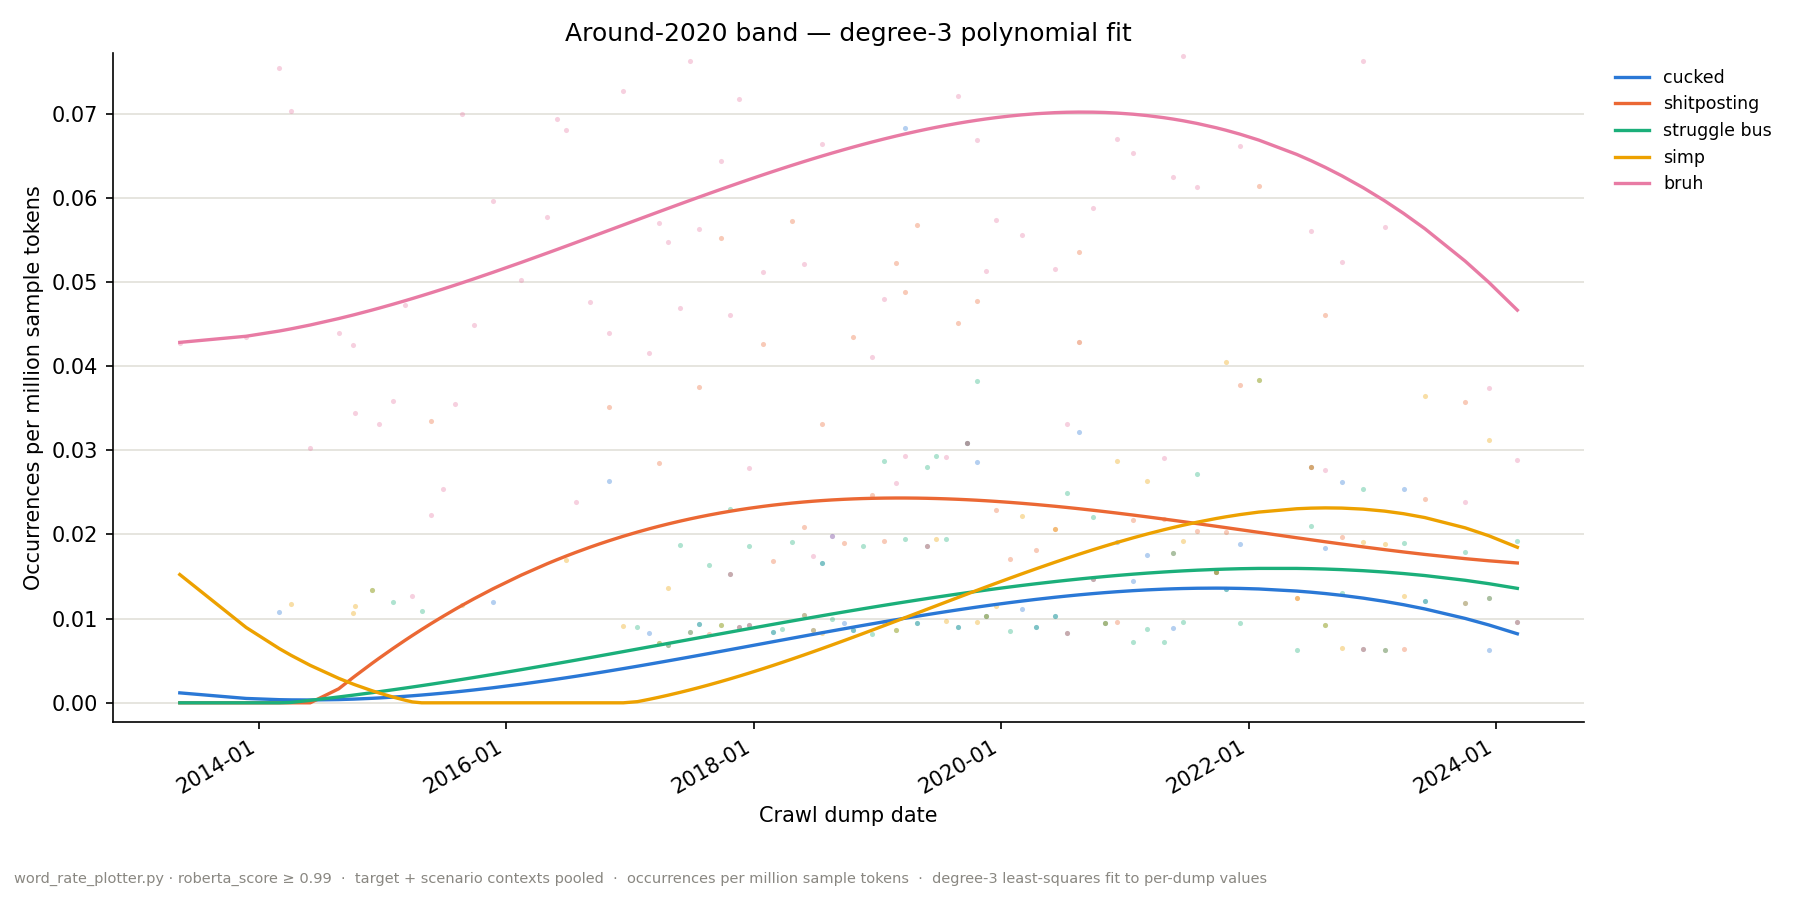
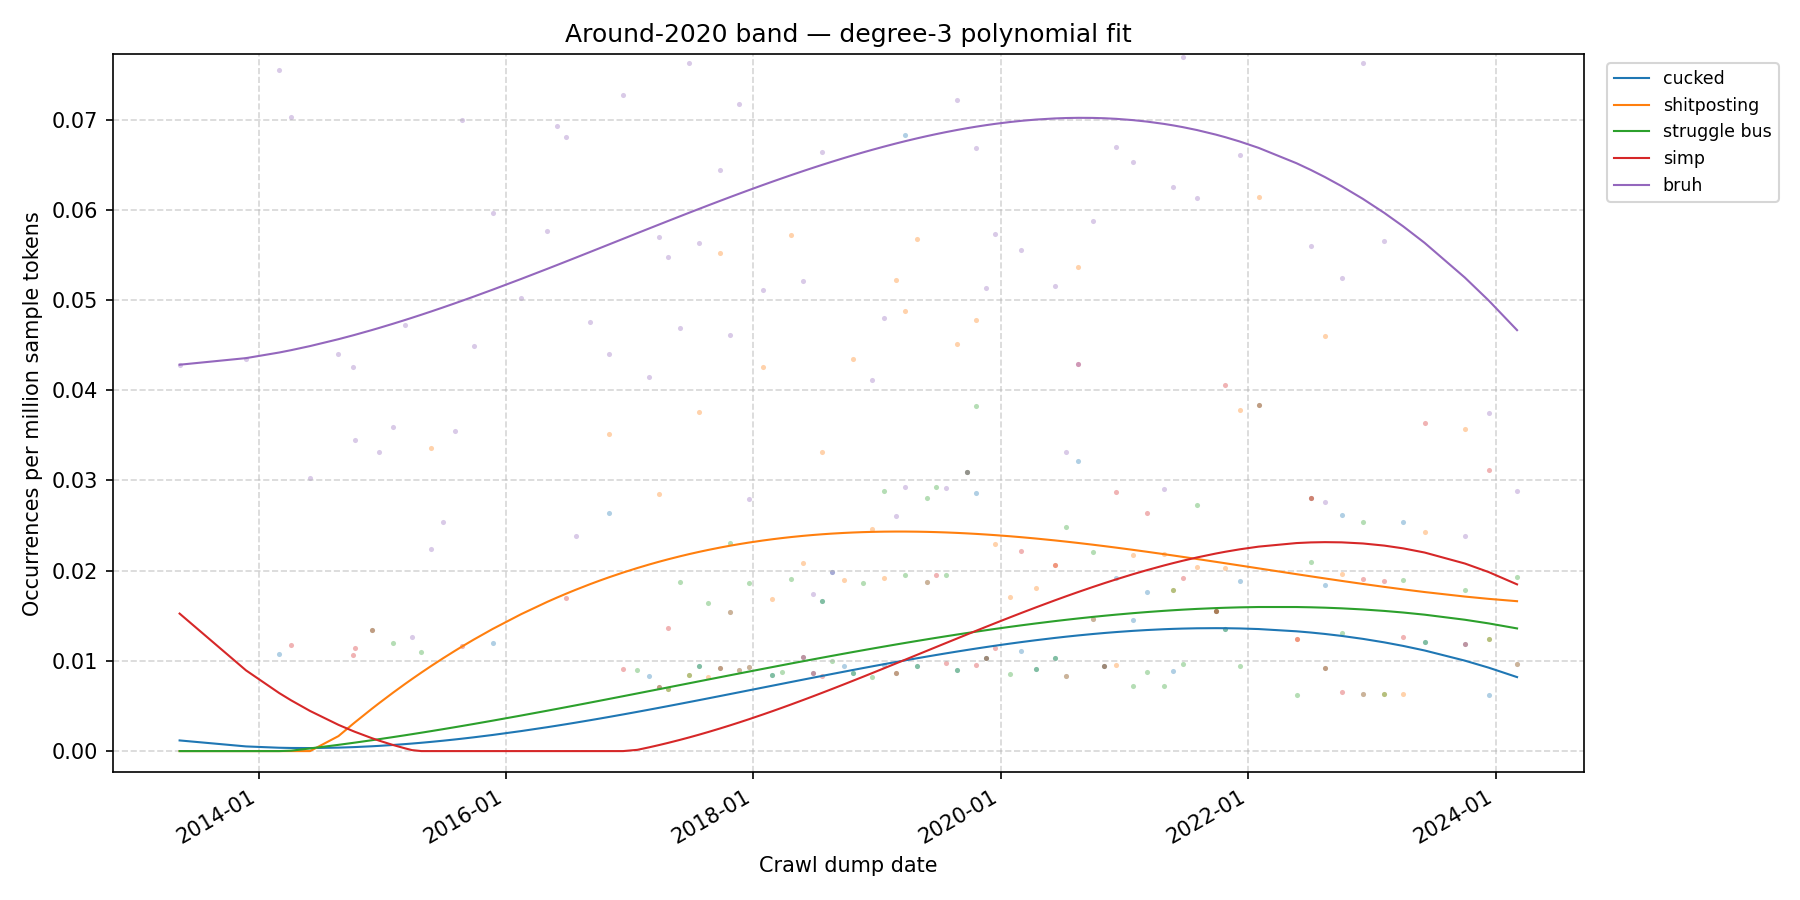
Update highlight bands and trend graphs after 2013 exclusion

diff --git a/FineWebAnalysis/visualization/word_rate_plotter.py b/FineWebAnalysis/visualization/word_rate_plotter.py
@@ -64,7 +64,10 @@ logging.getLogger("httpx").setLevel(logging.WARNING)
 
 ROOT = Path(__file__).resolve().parents[1]  # FineWebAnalysis/
 DEFAULT_SCORED_DIR = ROOT / "prompt_scored"
-SCENARIO_SCORED_DIR = ROOT / "scenario_prompt_scored"
+# The highlight words from the original 26-word scenario list (dude, omg, u, 💀, ...)
+# only have contexts here; peak_year.py pools the same two directories, so the
+# charts and peak_years_pct.json are built from the same rows.
+SCENARIO_SCORED_DIR = ROOT / "scenario_prompt_scored_old"
 DEFAULT_SIZES_CACHE = ROOT / "fineweb_10BT_dump_sizes.json"
 WRITING_DIR = ROOT.parent / "writing"
 # Monochrome Noto Emoji (SIL OFL, see fonts/OFL.txt), shared with PromptingSlang.
@@ -81,13 +84,14 @@ SMOOTH = 9
 # Degree of the least-squares polynomial fitted per word under --polynomial-fit.
 POLY_DEGREE = 3
 
-# Fixed cohorts of ephemeral words (pooled from both prompt_scored and
-# scenario_prompt_scored), bucketed by peak year, each saved as
+# The target words chosen by plot_min_pct.py from peak_years_pct.json (2013
+# excluded), bucketed by peak year: pre2018 <= 2017 < around2020 <= 2021 < 2022_24.
+# Pooled from prompt_scored and scenario_prompt_scored_old, each saved as
 # highlight_<band>_count.png. The pre-2018 band gets a broken y-axis so lol
 # (peak ~16/M) does not flatten the rest (peak <4/M).
 HIGHLIGHT_BANDS = {
     "pre2018":    ["stfu", "lmfao", "griefing", "methinks", "omg", "u", "yapping",
-                   "ick", "dude", "hella", "troll", "pumped", "rad", "lol", "meh",
+                   "ick", "dude", "hella", "troll", "pumped", "lol", "meh",
                    "bro", "finna", "lmao", "thot"],
     "around2020": ["cucked", "shitposting", "struggle bus", "simp", "bruh"],
     "2022_24":    ["cuck", "doggo", "shitpost", "💀", "lowkey", "doomscrolling",
